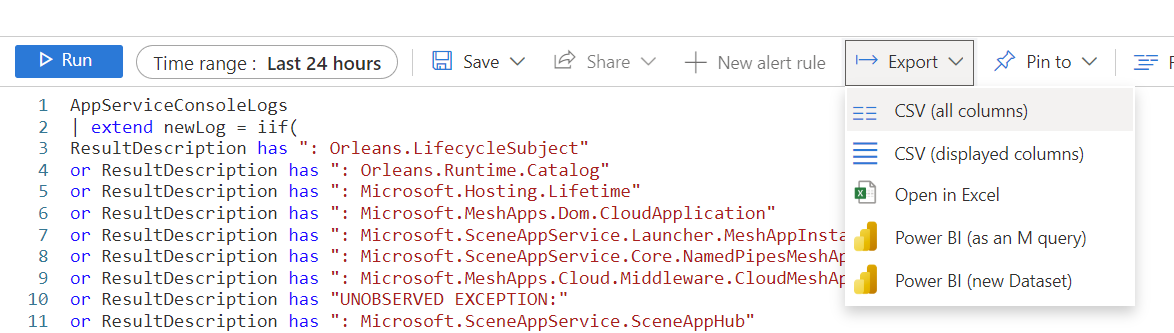
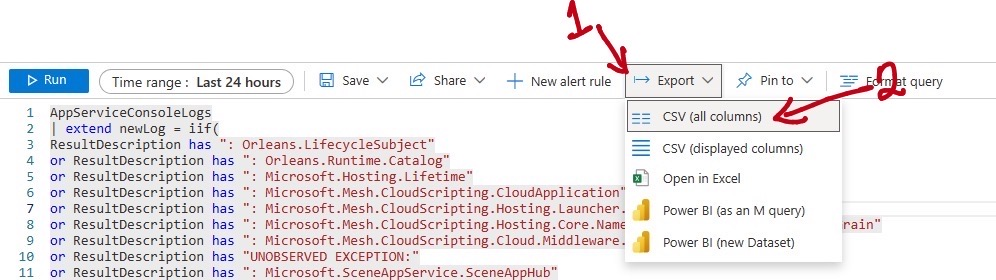
Update MeshApps to CloudScripting in the docs

diff --git a/mesh/develop/script-your-scene-logic/cloud-scripting/cloud-scripting-troubleshooting.md b/mesh/develop/script-your-scene-logic/cloud-scripting/cloud-scripting-troubleshooting.md
@@ -72,21 +72,24 @@ Reproduce the issue, and then share the Unity logs. Microsoft Mesh application l
 
 ### Collecting server logs
 #### **A. Log Stream**
+##### I. Log Stream on Azure Portal
 To see logs from the Mesh Cloud Scripting Service, in the **Monitoring** section of the AppService resource, click the **Log Stream** menu to see logs from the container, as shown in the image below.
 
 ![Log Stream Select](../../../media/mesh-scripting/troubleshooting/log_stream_select.png 'Log Stream Select')
 
-If you prefer, you can tail these same logs from your local machine by running the following command in your terminal:
+##### II. Log Stream via Azure CLI
+If you have the Azure CLI installed on your local machine, you could also tail these same logs from your local machine by running the following command in your terminal:
 
 ```az webapp log tail --name <APP_SERVICE_NAME> --resource-group <RESOURCE_GROUP_NAME>```
 
-You can also download log files from the hosted app service by going to the Advanced Tools (Kudu). 
+##### III. Download the logs as a zip file
+You may also download log files from the hosted app service by going to the Advanced Tools (Kudu). In the **"Development Tools"** section of the left pane, locate **Advanced Tools** and click the **Go** button.
+
+![AppService Advanced Tools](../../../media/mesh-scripting/troubleshooting/app_service_advanced_tools.png 'AppService Advanced Tools')
+
+The SCM website opens and you can download the Docker logs as a zip file, as shown below.
 
 ![Kudu](../../../media/mesh-scripting/troubleshooting/kudu.png 'Kudu')
-
-Under **Development Tools” >> Advanced Tools >> Go**. The SCM website opens and you can download the Docker logs as a zip file, as shown below.
-
-<!-- Is there supposed to be an image here? -->
 
 #### **B. Azure Monitor**
 Alternatively, using Azure Monitor, you could write KQL (Kusto Query Language) queries to pick out logs that you're particularly interested in from events, time ranges and more. This would be automatically set up for you if you checked the "Enable App Monitoring" box during deployment. If not, see the [manual setup for Azure Monitor](#manual-setup-for-azure-monitor-optional) section to configure Azure Monitor for your deployment.
@@ -98,6 +101,44 @@ To use this, in the **Monitoring** section of the navigation pane, select **Logs
 In the query Monitoring pane, you can select the logs you’re interested in. At the time of writing, we have “AppServiceConsoleLogs”, “AppServiceHTTPLogs”, “AppServiceAppLogs” and “AppServicePlatformLogs”. To view the logs from the Docker container, you may find the logs in “AppServiceAppLogs” and/or “AppServiceConsoleLogs” more useful.
 
 ![Azure Monitoring Pane](../../../media/mesh-scripting/troubleshooting/azure_monitoring_pane.png 'Azure Monitoring Pane')
+
+In the textbox provided on the right-hand side of the **Tables** menu, type in the following KQL query:
+
+```
+AppServiceConsoleLogs
+| extend newLog = iif(
+ResultDescription has ": Orleans.LifecycleSubject"
+or ResultDescription has ": Orleans.Runtime.Catalog"
+or ResultDescription has ": Microsoft.Hosting.Lifetime"
+or ResultDescription has ": Microsoft.Mesh.CloudScripting.CloudApplication"
+or ResultDescription has ": Microsoft.Mesh.CloudScripting.Hosting.Launcher.CloudAppInstance"
+or ResultDescription has ": Microsoft.Mesh.CloudScripting.Hosting.Core.NamedPipesCloudScriptingSessionGrain"
+or ResultDescription has ": Microsoft.Mesh.CloudScripting.Cloud.Middleware.CloudScriptingBridge"
+or ResultDescription has "UNOBSERVED EXCEPTION:"
+or ResultDescription has ": Microsoft.SceneAppService.SceneAppHub"
+or ResultDescription has ": Microsoft.Mesh.CloudScripting.Hosting.Core.NamedPipesCloudScriptingSessionGrain"
+or ResultDescription has ": Microsoft.Mesh.CloudScripting.Hosting.Launcher.CloudAppInstanceFactory"
+or ResultDescription has ": Microsoft.ClientChannel.Hosting.ProcessLifecycleLoggers"
+or ResultDescription has ": Microsoft.Mesh.CloudScripting.Services.ApplicationWorkDispatcher"
+or ResultDescription has ": Microsoft.Mesh.CloudScripting.Services.CloudScriptingHostedService"
+or ResultDescription has ": Microsoft.Mesh.CloudScripting.Hosting.Launcher.CloudScriptingPreparationService"
+or ResultDescription has ": Microsoft.Mesh.CloudScripting.Cloud.Middleware.CloudAppProcessFactory"
+or ResultDescription has ": Microsoft.ClientChannel.Resources.ClientLinkGrain"
+, 1, 0)
+| sort by TimeGenerated asc
+| extend logId = row_cumsum(newLog) 
+| summarize ResultDescription=make_list(ResultDescription), TimeGenerated=min(TimeGenerated) by logId
+| extend ResultDescription = strcat_array(ResultDescription, "")
+| sort by TimeGenerated desc
+| project TimeGenerated, ResultDescription
+| where not (ResultDescription has "Broadcasting data of size")
+```
+
+![Azure Monitoring Input Field](../../../media/mesh-scripting/troubleshooting/azure_monitoring_input_field.png 'Azure Monitoring Input Field')
+
+Export data to csv.
+
+![Azure Monitoring Export](../../../media/mesh-scripting/troubleshooting/azure_monitoring_export_csv.png 'Azure Monitoring Export')
 
 ##### **Manual Setup for Azure Monitor (Optional)**
 
